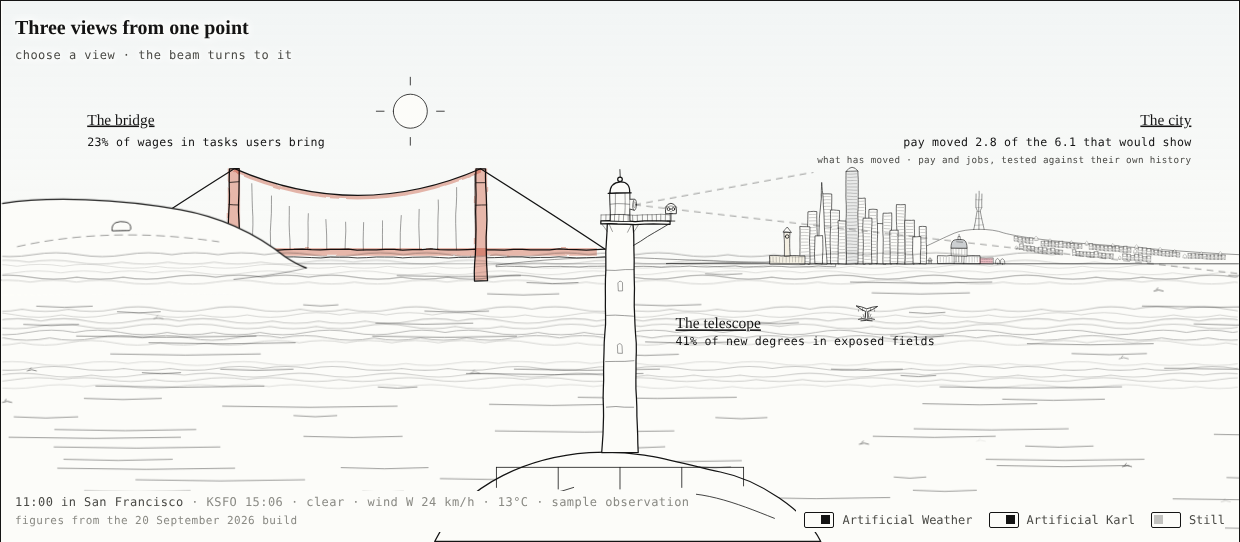
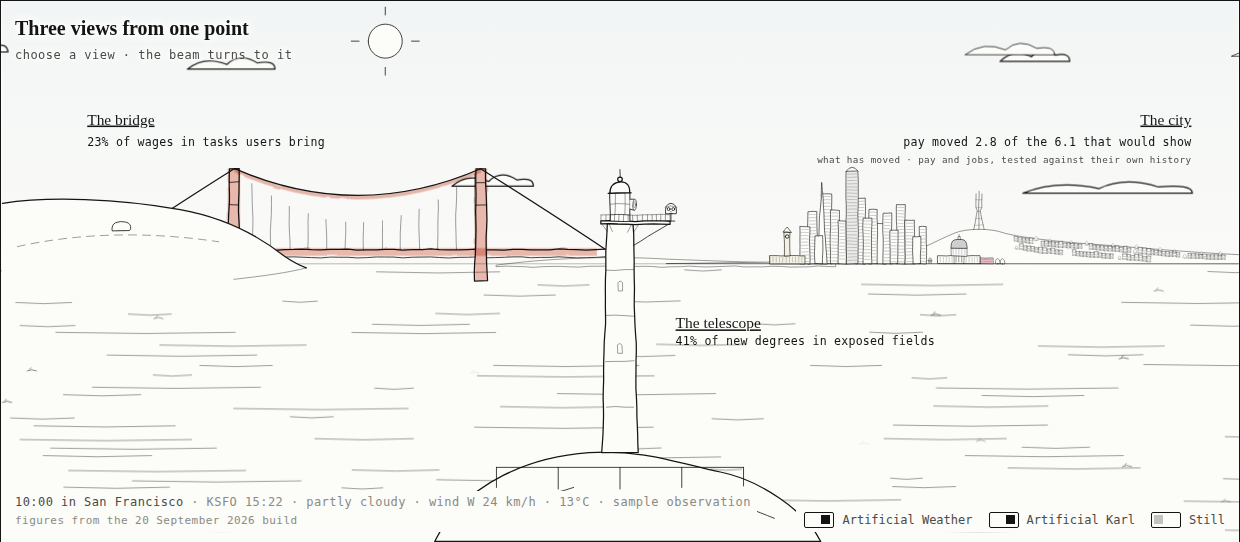
Front page: a written depth order applied throughout; far rain ends at the horizon and near rain falls in front; sun, moon and cloud clear of the labels; the light stops at the shore; take-offs climb out from behind the southern hills and nothing descends toward the city; one smooth plume for every 

diff --git a/docs/mockup/index.html b/docs/mockup/index.html
@@ -93,6 +93,7 @@ header.top{display:flex;align-items:baseline;justify-content:space-between;gap:1
 @keyframes cdrift{from{transform:translateX(1900px)}to{transform:translateX(-500px)}}
 .cloud{animation:cdrift var(--cdrift,1440s) linear infinite;animation-direction:var(--dir,normal)}
 .rain{animation:fall var(--rfall,1.1s) linear infinite}
+.rain.near{animation-duration:calc(var(--rfall,1.1s)*.7)}
 @keyframes fall{from{transform:translateY(-40px)}to{transform:translateY(40px)}}
 .sunwash,.dawn{pointer-events:none}
 .skywash{mix-blend-mode:var(--blend,multiply)}
@@ -223,6 +224,12 @@ header.top{display:flex;align-items:baseline;justify-content:space-between;gap:1
 
   <div class="frame">
   <div class="stage" id="stage" data-view="home" data-aw="on" data-ak="on">
+    <!-- The depth order. Nothing may cover what is nearer than itself.
+         1 sky: its colour; the sun, moon and stars; far cloud and far rain, which stop at the horizon; planes and launches
+         2 land: headland, bridge, city and hills, all solid, hiding whatever is behind them
+         3 near air and water: the water, the fog, near cloud and near rain, which fall in front of the land
+         4 life on the water and the shore: boats, whales, the car, gulls, a falling rocket once it has come forward
+         5 the lighthouse and the point, nearest of all; its light stops at the first solid thing it reaches -->
     <svg class="pan" id="L-sky" viewBox="0 0 1600 700" aria-hidden="true">
       <defs>
         <filter id="wc" x="-10%" y="-10%" width="120%" height="120%">
@@ -237,9 +244,9 @@ header.top{display:flex;align-items:baseline;justify-content:space-between;gap:1
         <mask id="fogmask"><rect x="0" y="0" width="1600" height="700" fill="white"/><polygon id="cone" points="0,0" fill="black"/></mask>
         <mask id="binoc"><rect x="0" y="0" width="1600" height="700" fill="black"/><circle cx="700" cy="290" r="210" fill="white"/><circle cx="900" cy="290" r="210" fill="white"/></mask>
       </defs>
-      <g class="zoom"><g id="skyall"><rect class="skywash" x="0" y="0" width="1600" height="342" fill="url(#skygrad)"/>
-      <g id="sky" class="scene sky thin"></g></g></g>
+      <g class="zoom"><g id="skywashg"><rect class="skywash" x="0" y="0" width="1600" height="342" fill="url(#skygrad)"/></g></g>
       <g id="celes" class="scene sky thin"></g>
+      <g class="zoom"><g id="skyall"><g id="sky" class="scene sky thin"></g></g></g>
       <g id="lifeback" class="life scene"></g>
     </svg>
     <!-- ================= the one scene from the point, painted once; the colour lies over the ink ================= -->
@@ -488,6 +495,10 @@ header.top{display:flex;align-items:baseline;justify-content:space-between;gap:1
   el("path", {d:"M -3.2 -5 a 1.4 1.4 0 1 1 0.1 0 M 3.2 -5 a 1.4 1.4 0 1 1 0.1 0", class:"thin", style:"fill:var(--paper)"}, bearHead);
   el("path", {d:"M -4.2 1 Q -4.8 -5.4 0 -5.8 Q 4.8 -5.4 4.4 -1.2 Q 7.4 -1.4 7.6 0.2 Q 7.2 1.6 4 1.4 L 4 1.8 Z", class:"thin", style:"fill:var(--paper)"}, bearHead);
   el("circle", {cx:2, cy:-2.6, r:.55, class:"solid"}, bearHead); el("circle", {cx:7.3, cy:-0.3, r:.6, class:"solid"}, bearHead);
+  { const u = el("g", {id:"brolly", style:"display:none"}, bearHead);
+    el("path", {d:"M 1 -6 L 1 -15", class:"hair"}, u);
+    el("path", {d:"M -9 -14 Q 1 -24 11 -14 Q 8.5 -16 6 -14 Q 3.5 -16 1 -14 Q -1.5 -16 -4 -14 Q -6.5 -16 -9 -14 Z", class:"thin", style:"fill:var(--paper)"}, u);
+    el("path", {d:"M 1 -21.5 L 1 -23", class:"hair"}, u); }
   el("path", {d:"M 143 297 Q 142 290 147 287 Q 153 284 159 285.5 Q 165 287 166 292 Q 167 296 165 297 Z", class:"thin", style:"fill:var(--paper)"}, headland);
   el("path", {d:"M 394 346 C 370 352, 340 356, 300 360", class:"hair"}, headland);
   el("path", {d:"M 20 318 C 100 300, 190 298, 280 312", class:"hair", "stroke-dasharray":"8 6"}, headland);
@@ -711,12 +722,12 @@ header.top{display:flex;align-items:baseline;justify-content:space-between;gap:1
     let far;
     if (!zoomed){
       // from the point, two sight lines to the ends of the place, and the light between them
-      far = target.ends.map(([x, y]) => [lantern[0] + (x-lantern[0])*1.25, lantern[1] + (y-lantern[1])*1.25]);
+      far = target.ends.map(([x, y]) => [x, y]);
       beamPath.setAttribute("d", far.map(([x, y]) => `M${LANTERN[0]} ${LANTERN[1]} L ${x.toFixed(1)} ${y.toFixed(1)}`).join(" "));
     } else {
       // turned, a single narrow beam from the lantern to the middle of the place, widening a little with distance
       const [a1, b1] = target.base.map(([x, y]) => toScreen(view, x, y)), c = [(a1[0]+b1[0])/2, (a1[1]+b1[1])/2];
-      const dx = c[0]-lantern[0], dy = c[1]-lantern[1], len = Math.hypot(dx, dy), nx = -dy/len, ny = dx/len, w = len*0.11, ext = 1.35;
+      const dx = c[0]-lantern[0], dy = c[1]-lantern[1], len = Math.hypot(dx, dy), nx = -dy/len, ny = dx/len, w = len*0.11, ext = .78;   // the drawn light stops short of the shore, where the first solid thing stands
       const f = [lantern[0] + dx*ext, lantern[1] + dy*ext];
       far = [[f[0] + nx*w*ext, f[1] + ny*w*ext], [f[0] - nx*w*ext, f[1] - ny*w*ext]];
     }
@@ -817,7 +828,7 @@ header.top{display:flex;align-items:baseline;justify-content:space-between;gap:1
     hold(); light(null);
     if (lastView !== null && lastView !== view){ $("#celes").style.opacity = 0; clearTimeout(celesTimer); celesTimer = setTimeout(()=>{ $("#celes").style.opacity = 1; }, 1450); }
     lastView = view;
-    for (const id of ["life", "skyall", "lifeback", "celes"]){ if (view === "valley") $("#"+id).setAttribute("mask", "url(#binoc)"); else $("#"+id).removeAttribute("mask"); }
+    for (const id of ["life", "skyall", "lifeback", "celes", "skywashg"]){ if (view === "valley") $("#"+id).setAttribute("mask", "url(#binoc)"); else $("#"+id).removeAttribute("mask"); }
     const r = R[view];
     // the one drawing scales about the place turned to; the lighthouse in front shrinks to the base of the frame
     const {c, s: zs} = ZOOM[view];
@@ -952,7 +963,7 @@ header.top{display:flex;align-items:baseline;justify-content:space-between;gap:1
   // the frame looks from a little north of east round to the south-east: the sun rises over the Gate and the bay
   // drawn, not surveyed: the sky is widened so the whole day and night cross the frame, east at the left edge, west at the right
   function xOfAzimuth(az){ const a = ((az % 360) + 360) % 360; return (Math.max(50, Math.min(310, a)) - 50)/260 * W; }
-  function yOfAltitude(alt){ return 340 - Math.max(-12, Math.min(70, alt))*4.6; }
+  function yOfAltitude(alt){ return 330 - Math.max(-12, Math.min(60, alt))*5.4; }
   const HEADING = { home:105, city:125, bridge:100, valley:150 };
 
   const sky = $("#sky"), skyFront = $("#skyfront"), celes = $("#celes"); let celesTimer = null, lastView = null;
@@ -960,7 +971,14 @@ header.top{display:flex;align-items:baseline;justify-content:space-between;gap:1
   function inFrame(view, x, y, r){
     let [sx, sy] = (view === "home" || view === "valley") ? [x, y] : toScreen(view, x, y);
     if (view === "home" || view === "valley") sx = Math.max(r + 20, Math.min(1600 - r - 20, sx));
-    return (sx - r < 10 || sx + r > 1590 || sy - r < 10) ? null : [sx, sy]; }
+    // at the point, never over a label: lift above it, or failing that set it below
+    if (view === "home") for (const [x1, y1, x2, y2] of LABELS) if (sx + r > x1 && sx - r < x2 && sy + r > y1 && sy - r < y2){
+      if (sy < (y1 + y2)/2 || y2 + r + 4 > 332) sy = Math.max(r + 4, y1 - r - 2);                 // above the label, as high as the frame allows
+      else sy = y2 + r + 4;                                                                         // or below it, if it was already low
+      if (sy + r > y1 && sy - r < y2) sx = (sx < (x1 + x2)/2) ? x1 - r - 6 : x2 + r + 6; }         // and if it still would not clear, beside it
+    for (const [x1, y1, x2, y2] of [[0, 0, 440, 104]]) if (sx + r > x1 && sx - r < x2 && sy + r > y1 && sy - r < y2) sx = x2 + r + 10;   // the title, in every view
+    return (sx - r < 4 || sx + r > 1596 || sy - r < 2) ? null : [sx, sy]; }
+  const LABELS = [[90, 100, 600, 222], [990, 100, 1570, 222]];
   // The sky's own colour: the faintest wash, blue by day, warm at the horizon around dawn and dusk, a deep
   // blue at night. Each is a pair of stops keyed to the sun's altitude and blended between the keys.
   const SKYKEYS = [[-18, ["#1B2238", .3, "#1B2238", .12]], [-7, ["#7A7CA6", .2, "#E9A27A", .16]], [-1, ["#C4BEDD", .2, "#F2B48C", .22]],
@@ -989,14 +1007,17 @@ header.top{display:flex;align-items:baseline;justify-content:space-between;gap:1
     sky.innerHTML = ""; skyFront.innerHTML = ""; celes.innerHTML = "";
     const r = rng(w.clouds*13+7), clock = Date.now()/1000;
     // most cloud is behind the land and the bridge; one in four passes in front of them
-    for (let i=0;i<w.clouds*3;i++){ const y = 110 + r()*90, wd = 80 + r()*140, front = !w.streak && i % 4 === 3;
+    // cloud keeps to two bands: high, above the labels, and low, along the horizon behind the land
+    for (let i=0;i<w.clouds*3;i++){ const y = i % 3 === 2 ? 236 + r()*52 : 66 + r()*24, wd = 80 + r()*140, front = !w.streak && i % 4 === 3;
       const d = w.streak ? `M0 ${y} q ${wd*.5} -6 ${wd} 0 M20 ${y+8} q ${wd*.3} -4 ${wd*.6} 0` : `M0 ${y} q ${wd*.2} -18 ${wd*.45} -6 q ${wd*.15} -16 ${wd*.35} -2 q ${wd*.2} -4 ${wd*.2} 8 Z`;
       const c = el("path", {d, class:"cloud"}, front ? skyFront : sky); if (!w.streak) c.style.fill = "var(--paper)";
       const own = cross*(.8 + r()*.4); c.style.animationDuration = own.toFixed(0) + "s"; c.style.animationDelay = (-(((clock/own) + r()) % 1)*own).toFixed(1) + "s"; }
-    if (w.band) for (let y=96; y<140; y+=18) el("path", {d:`M 0 ${y} L ${W} ${y}`, class:"hair"}, sky);
+    if (w.band) for (let y=90; y<104; y+=10) el("path", {d:`M 0 ${y} L ${W} ${y}`, class:"hair"}, sky);
     const rainN = [0, 220, 560][Math.max(w.rain, rainLevel)];
-    if (rainN){ const slant = -lateral * 0.35; const g = el("g", {class:"rain"}, sky);
-      for (let i=0;i<rainN;i++){ const x = r()*W, y = 130 + r()*420; el("path", {d:`M${x} ${y} l ${slant} 9`, class:"hair"}, g); } }
+    if (rainN){ const slant = -lateral * 0.35;
+      const far = el("g", {class:"rain"}, sky), near = el("g", {class:"rain near"}, skyFront);
+      for (let i=0;i<rainN;i++){ const x = r()*W, y = 60 + r()*272; el("path", {d:`M${x} ${y} l ${slant*.7} 7`, class:"hair"}, far); }        // above the horizon only
+      for (let i=0;i<rainN*.35;i++){ const x = r()*W, y = 40 + r()*640; el("path", {d:`M${x} ${y} l ${slant*1.3} 13`, class:"hair"}, near); } }
     document.querySelectorAll(".gull").forEach(p=>{ p.style.transform = `rotate(${lateral > 20 ? 14 : lateral < -20 ? -14 : 0}deg)`; p.style.transformOrigin = "center"; });
     // the day's light
     const now = sfNow(), sun = sunPosition(now), phase = moonPhase(now), moon = sunPosition(now, phase*360, Math.cos(phase*2*Math.PI));
@@ -1011,7 +1032,7 @@ header.top{display:flex;align-items:baseline;justify-content:space-between;gap:1
       el("path", {d:`M ${x} ${y} m -22 0 a 22 22 0 1 0 44 0 a 22 22 0 1 0 -44 0 M ${x} ${y-34} l 0 -10 M ${x} ${y+34} l 0 10 M ${x-34} ${y} l -10 0 M ${x+34} ${y} l 10 0`, class:"thin sun", style:"fill:var(--paper)"}, celes);
     }
     if (night){ const rs = rng(Math.floor(Date.now()/86400e3)); const n = 4 + Math.floor(rs()*2);
-      for (let i=0;i<n;i++){ const x = 480 + rs()*1080, y = 40 + rs()*120, sz = 2 + rs()*1.6;
+      for (let i=0;i<n;i++){ const x = 480 + rs()*1080, y = 30 + rs()*62, sz = 2 + rs()*1.6;
         const st = el("path", {d:`M ${x} ${y-sz*2} L ${x+sz*.45} ${y-sz*.45} L ${x+sz*2} ${y} L ${x+sz*.45} ${y+sz*.45} L ${x} ${y+sz*2} L ${x-sz*.45} ${y+sz*.45} L ${x-sz*2} ${y} L ${x-sz*.45} ${y-sz*.45} Z`, class:"star", style:"fill:var(--ink);stroke:none"}, celes);
         st.style.animationDuration = (5 + rs()*7).toFixed(1) + "s"; st.style.animationDelay = (-rs()*10).toFixed(1) + "s"; } }
     // the moon is drawn at its phase and where it is; on a night it has set, the drawing keeps it low over the horizon anyway
@@ -1052,7 +1073,7 @@ header.top{display:flex;align-items:baseline;justify-content:space-between;gap:1
   const life = $("#life");
   const reduced = matchMedia("(prefers-reduced-motion: reduce)").matches;
   function tween(ms, step, done){ const t0 = performance.now(); (function f(t){ const k = Math.min(1, (t - t0)/ms); step(k); if (k < 1) requestAnimationFrame(f); else if (done) done(); })(t0); }
-  let taxiUntil = 0, bearUp = false, rocketUntil = 0, whaleUp = false;        // one robotaxi on the road at a time; one bear
+  let taxiUntil = 0, bearUp = false, rocketUntil = 0, whaleUp = 0, lastPad = 0, ferryUntil = 0;        // one robotaxi on the road at a time; one bear
   const EVENTS = {
     gull(){ if (stage.classList.contains("night")) return; // one to three, each its own size, pace, bob and wingbeat
       const n = 1 + Math.floor(Math.random()*Math.random()*3), ltr = Math.random() < .5, y0 = 130 + Math.random()*140, dur = 12000 + Math.random()*10000;
@@ -1061,7 +1082,7 @@ header.top{display:flex;align-items:baseline;justify-content:space-between;gap:1
         const w = el("path", {d:flap[0]}, g); let i = 0; const flapper = setInterval(()=>{ w.setAttribute("d", flap[i++ % 2]); }, 200 + Math.random()*140);
         tween(dur*(.95 + Math.random()*.1), k=>{ const x = ltr ? -40 - dx + k*1740 : 1640 + dx - k*1740; g.setAttribute("transform", `translate(${x},${y0 + dy + Math.sin(k*fq + ph)*amp}) scale(${sc})`); }, ()=>{ clearInterval(flapper); g.remove(); }); } },
     plane(){ // several kinds, several paths: across high, in to land, up from behind the city, across and away, round and down behind the skyline, a small jet
-      const view = stage.dataset.view, kinds = ["cruise","landing","takeoff","away","turn","jet"], kind = PLANE_KIND || kinds[Math.floor(Math.random()*kinds.length)];
+      const view = stage.dataset.view, kinds = ["cruise", "takeoff", "away", "jet", "cruise"], kind = PLANE_KIND || kinds[Math.floor(Math.random()*kinds.length)];
       const g = el("g", {}, $("#lifeback")), ship = el("g", {class:"thin"}, g), P = "fill:var(--paper)";
       if (kind === "jet"){
         el("path", {d:"M-22 -3 L 15 -2.6 Q 23 -2.2 24 0 Q 22 2 15 2 L -16 2 Q -20 1.4 -22 -3 Z", style:P}, ship);
@@ -1089,22 +1110,23 @@ header.top{display:flex;align-items:baseline;justify-content:space-between;gap:1
       el("circle", {cx:nose[0], cy:nose[1], r:2, class:"carlight lamp", style:"fill:#FFF8DC;stroke:none"}, ship);
       const beat = (.9 + Math.random()*.9).toFixed(2) + "s"; red.style.setProperty("--nav", beat); green.style.setProperty("--nav", beat); green.style.animationDelay = "-" + (Math.random()).toFixed(2) + "s";
       // where it rises from, or sinks behind: the city, which sits differently in each view
-      const behind = { home:[1010, 262], city:[780, 300], bridge:[1250, 300], valley:[800, 300] }[view];
+      // a take-off starts below the ridge of the southern hills, so the land hides it until it climbs out; where those hills are off the frame, it is a crossing instead
+      const hill = view === "home" ? [1480 + Math.random()*90, 333] : view === "city" ? toScreen("city", 1500, 333) : null;
+      const behind = hill;
       const L2R = Math.random() < .5, sx = L2R ? -90 : 1690, ex = L2R ? 1690 : -90;
       const bez = (p0, p1, p2, p3, t) => { const u = 1-t; return [0,1].map(i => u*u*u*p0[i] + 3*u*u*t*p1[i] + 3*u*t*t*p2[i] + t*t*t*p3[i]); };
-      const hi = 80 + Math.random()*60;
+      const ceiling = { home:[80, 140], city:[22, 52], bridge:[22, 70], valley:[80, 140] }[view], hi = ceiling[0] + Math.random()*(ceiling[1] - ceiling[0]);   // above the tallest thing in the view
       const path = {
         cruise:  { dur: 34000 + Math.random()*12000, s:[.42, .42], at: t => [sx + (ex-sx)*t, hi + Math.sin(t*4)*2] },
         jet:     { dur: 13000 + Math.random()*5000,  s:[.36, .36], at: t => [sx + (ex-sx)*t, hi - 10 + t*(Math.random()<.5?1:-1)*0] },
-        landing: { dur: 24000 + Math.random()*6000,  s:[.5, .78], at: t => bez([sx, 110], [sx + (ex-sx)*.35, 140], [sx + (ex-sx)*.7, 250], [ex, 300 + Math.random()*0], t) },
-        takeoff: { dur: 20000 + Math.random()*6000,  s:[.3, .6], at: t => bez(behind, [behind[0] + (L2R?1:-1)*120, behind[1] - 40], [behind[0] + (L2R?1:-1)*500, 120], [behind[0] + (L2R?1:-1)*1100, 20], t), gearUp:true },
-        away:    { dur: 26000 + Math.random()*8000,  s:[.45, .08], at: t => bez([sx, 170], [800, 175], [L2R ? 1100 : 500, 110], [L2R ? 1150 : 450, 30], t), fade:true },
-        turn:    { dur: 26000 + Math.random()*8000,  s:[.42, .12], at: t => bez([ex, 120], [L2R ? 1100 : 500, 140], [behind[0] + (L2R?160:-160), behind[1] - 70], [behind[0], behind[1] + 10], t) },
-      }[kind];
+        takeoff: behind ? { dur: 24000 + Math.random()*6000, s:[.34, .6], at: t => bez(behind, [behind[0] - 30, behind[1] - 100], [behind[0] - 120, behind[1] - 260], [behind[0] - 800, behind[1] - 400], t), gearUp:true } : null,
+        away:    { dur: 26000 + Math.random()*8000,  s:[.45, .08], at: t => bez([sx, hi + 20], [800, hi + 24], [L2R ? 1100 : 500, hi - 20], [L2R ? 1150 : 450, Math.max(4, hi - 60)], t), fade:true },
+      }[kind] || { dur: 34000 + Math.random()*12000, s:[.42, .42], at: t => [sx + (ex-sx)*t, hi + Math.sin(t*4)*2] };
       let prev = path.at(0);
       tween(path.dur, k=>{
         const [x, y] = path.at(k), [nx, ny] = path.at(Math.min(1, k + .004)), dx = nx - x, dy = ny - y;
-        const dir = dx >= 0 ? 1 : -1; let rot = Math.atan2(dy, Math.abs(dx))*180/Math.PI * dir; rot = Math.max(-30, Math.min(30, rot));
+        // pitch follows the path, nose up in a climb and a little more than the path itself, as a wing needs
+        const dir = dx >= 0 ? 1 : -1; let rot = Math.atan2(dy, Math.abs(dx))*180/Math.PI * dir; rot = Math.max(-25, Math.min(25, rot*1.15));
         const sc = path.s[0] + (path.s[1] - path.s[0])*k;
         if (path.gearUp) gear.style.opacity = Math.max(0, 1 - (k-.2)*6);
         if (path.fade) g.style.opacity = Math.min(1, (1-k)*6);
@@ -1113,40 +1135,49 @@ header.top{display:flex;align-items:baseline;justify-content:space-between;gap:1
       }, ()=>g.remove()); },
     rocket(){ const view = stage.dataset.view; if (view !== "home" && view !== "valley") return 0;
       if (performance.now() < rocketUntil) return 0;
-      // from behind the land, straight up, slow at first and gathering speed, its plume left hanging in the air behind it;
-      // one in three loses its engine, coasts, hangs, wobbles, and falls back into the bay
-      const valley = view === "valley", clip = valley ? "url(#behind-foothills)" : "url(#behind-hills)";
-      const pickX = () => { if (!valley) return 1420 + Math.random()*120; let x; do { x = 830 + Math.random()*270; } while (Math.abs(x - 930) < 40); return x; };
-      const x0 = pickX(), y0 = valley ? 300 : 380, waterY = valley ? 430 : 372 + Math.random()*30;
-      // the clip sits on a still wrapper: on the moving rocket itself it would move with it
-      const holder = el("g", {"clip-path":clip}, life), g = el("g", {class:"thin"}, holder), trail = el("g", {class:"hair"}, life); trail.setAttribute("clip-path", clip);
+      // it rises from behind the land in the far layer, so the land hides the pad and the first seconds of the climb;
+      // slow off the pad, gathering speed, leaving a plume that spreads and thins; one in three loses its engine,
+      // coasts, hangs, wobbles, and falls forward into the bay, crossing into the near layer as it comes
+      const valley = view === "valley", far = $("#lifeback");
+      let x0; do { x0 = valley ? 830 + Math.random()*270 : 1350 + Math.random()*230; } while ((valley && Math.abs(x0 - 930) < 40) || Math.abs(x0 - lastPad) < 60);
+      lastPad = x0;
+      const y0 = valley ? 300 : 352, waterY = valley ? 430 : 372 + Math.random()*30;
+      const plume = el("path", {d:"", style:"fill:var(--ink);fill-opacity:.1;stroke:none"}, far), core = el("path", {d:"", class:"hair"}, far);
+      const g = el("g", {class:"thin"}, far);
       el("path", {d:"M-3 0 L -3 -20 Q 0 -30 3 -20 L 3 0 Z M-3 -5 L -7 2 L -3 0 M 3 -5 L 7 2 L 3 0", style:"fill:var(--paper)"}, g);
       const flame = el("path", {d:"M -2 1 L 0 9 L 2 1", class:"thin"}, g);
-      const fails = FORCE_FAIL || Math.random() < 1/3, lean = (valley ? (Math.random() < .5 ? 1 : -1) : 1)*(.35 + Math.random()*.55);   // from the point they turn out over the ocean, into the frame
-      const cut = 3.6 + Math.random()*1.2;                                            // seconds of burn, for the one that fails
-      let t = 0, x = x0, y = y0, vx = 0, vy = -8, ang = 0, spin = 0, phase = "burn", last = performance.now(), lastPuff = 0, splash = null, hangT = 0;
+      const fails = FORCE_FAIL || Math.random() < 1/3, lean = (valley ? (Math.random() < .5 ? 1 : -1) : 1)*(.35 + Math.random()*.55);
+      const cutoff = 3.8 + Math.random()*1.2;
+      let t = 0, x = x0, y = y0, vx = 0, vy = -8, ang = 0, spin = 0, phase = "burn", last = performance.now(), hangT = 0, splash = null;
+      const pts = [];                                                               // the plume: where the nozzle has been, and when
       rocketUntil = performance.now() + 60000;
-      const puff = (px, py, speed) => { const len = 4 + speed*.12, l = el("path", {d:`M ${px.toFixed(1)} ${py.toFixed(1)} l ${((Math.random()-.5)*3).toFixed(1)} ${len.toFixed(1)}`}, trail);
-        l.style.transition = "opacity 3.2s linear"; requestAnimationFrame(()=>requestAnimationFrame(()=>{ l.style.opacity = 0; })); setTimeout(()=>l.remove(), 3400); };
-      const done = () => { holder.remove(); setTimeout(()=>{ trail.remove(); if (splash) splash.remove(); }, 3500); rocketUntil = performance.now() + 4000; };
+      const drawPlume = () => {
+        const now = t; while (pts.length && now - pts[0][2] > 7) pts.shift();
+        if (pts.length < 2){ plume.setAttribute("d", ""); core.setAttribute("d", ""); return; }
+        const L = [], R = []; let c = "";
+        pts.forEach(([px, py, pt], i) => { const age = now - pt, w = .8 + age*2.6 + Math.sin(i*1.7)*age*.5;
+          L.push(`${(px - w).toFixed(1)} ${py.toFixed(1)}`); R.unshift(`${(px + w).toFixed(1)} ${py.toFixed(1)}`); c += `${i ? "L" : "M"} ${px.toFixed(1)} ${py.toFixed(1)} `; });
+        plume.setAttribute("d", `M ${L.join(" L ")} L ${R.join(" L ")} Z`); core.setAttribute("d", c); };
+      const done = () => { g.remove(); const fade = setInterval(()=>{ t += .1; drawPlume(); if (pts.length < 2){ clearInterval(fade); plume.remove(); core.remove(); } }, 100); rocketUntil = performance.now() + 4000; };
       (function step(now){
-        if (!g.isConnected) return done();
-        const dt = Math.min(.05, (now - last)/1000); last = now; t += dt;
-        if (phase === "burn"){ vy = -(8 + 9*t); vx = -lean*.5*t*t; if (fails && t > cut) phase = "coast"; }
+        if (!g.isConnected) return;
+        const dt = Math.min(.034, (now - last)/1000); last = now; t += dt;
+        if (phase === "burn"){ vy = -(6 + 8*t); vx = -lean*.45*t*t; if (fails && t > cutoff) phase = "coast"; }
         else if (phase === "coast"){ vy += 13*dt; vx *= (1 - .6*dt); if (vy >= 0){ phase = "hang"; hangT = 0; } }
-        else if (phase === "hang"){ hangT += dt; vy = 2*hangT; spin = Math.sin(hangT*9)*(8 + hangT*30); if (hangT > 1.4){ phase = "fall"; holder.removeAttribute("clip-path"); } }
+        else if (phase === "hang"){ hangT += dt; vy = 2*hangT; spin = Math.sin(hangT*9)*(8 + hangT*30); if (hangT > 1.4){ phase = "fall"; life.appendChild(g); } }
         else if (phase === "fall"){ vy += 16*dt; vx = -lean*10; spin += 260*dt*lean; }
         x += vx*dt; y += vy*dt;
-        ang = phase === "burn" || phase === "coast" ? Math.atan2(vx, -vy)*180/Math.PI : ang;
-        g.setAttribute("transform", `translate(${x.toFixed(1)},${y.toFixed(1)}) rotate(${(ang + spin).toFixed(1)})`);
+        if (phase === "burn" || phase === "coast") ang = Math.atan2(vx, -vy)*180/Math.PI;
+        g.setAttribute("transform", `translate(${x.toFixed(2)},${y.toFixed(2)}) rotate(${(ang + spin).toFixed(2)})`);
         const burning = phase === "burn"; flame.style.opacity = burning ? (.6 + Math.random()*.4) : 0;
-        if (burning && now - lastPuff > 45){ lastPuff = now; const r = ang*Math.PI/180; puff(x - Math.sin(r)*-2, y + Math.cos(r)*6, Math.abs(vy)); }
+        if (burning){ const r = ang*Math.PI/180; pts.push([x - Math.sin(r)*4, y + Math.cos(r)*4, t]); }
+        drawPlume();
         if (phase === "fall" && y >= waterY){
-          g.style.opacity = 0; splash = el("g", {class:"thin"}, life);
+          g.remove(); splash = el("g", {class:"thin"}, life);
           for (let i=0;i<7;i++){ const a = (-150 + i*20)*Math.PI/180; el("path", {d:`M${x} ${waterY} l ${Math.cos(a)*8} ${Math.sin(a)*8} l ${Math.cos(a)*10} ${Math.sin(a)*14}`}, splash); }
           el("path", {d:`M${x-30} ${waterY+6} q 30 -5 60 0 M${x-48} ${waterY+14} q 48 -6 96 0`, class:"hair"}, splash);
-          splash.style.transition = "opacity 2.5s"; requestAnimationFrame(()=>requestAnimationFrame(()=>{ splash.style.opacity = 0; })); return done(); }
-        if (y < -80) return done();
+          splash.style.transition = "opacity 2.5s"; requestAnimationFrame(()=>requestAnimationFrame(()=>{ splash.style.opacity = 0; })); setTimeout(()=>splash.remove(), 2700); return done(); }
+        if (y < -120) return done();
         requestAnimationFrame(step); })(last);
       return fails ? 14000 : 16000; },
     robotaxi(){ if (stage.dataset.view !== "city" || performance.now() < taxiUntil) return 0; taxiUntil = performance.now() + 21000;
@@ -1174,6 +1205,7 @@ header.top{display:flex;align-items:baseline;justify-content:space-between;gap:1
     bear(){ if (stage.dataset.view !== "bridge" || bearUp) return 0; bearUp = true;
       // up over the rock, a look one way and the other, and down again
       const h = $("#bearhead"); const at = (y, fx) => h.setAttribute("transform", `translate(0,${y.toFixed(2)}) scale(${fx},1)`);
+      const wet = (PRESETS[current.preset] || {}).rain > 0 || current.rainLevel > 0; $("#brolly").style.display = wet ? "" : "none";   // in the rain, it brings an umbrella
       tween(1800, k=>at(8 - 17*(1-(1-k)**2), 1), ()=>{ setTimeout(()=>{ at(-9, -1); setTimeout(()=>{ at(-9, 1);
         setTimeout(()=>tween(1400, k=>at(-9 + 17*k*k, 1), ()=>{ bearUp = false; }), 1600); }, 1400); }, 1500); });
       return 7800; },
@@ -1187,17 +1219,23 @@ header.top{display:flex;align-items:baseline;justify-content:space-between;gap:1
       el("path", {d:"M -1.5 -38 L -1.5 -4 L -17 -4 Z", style:P}, boat);
       el("circle", {cx:0, cy:-45, r:1.3, class:"carlight lamp", style:"fill:#FFFFFF;stroke:none"}, boat);
       el("circle", {cx:-20, cy:2, r:1.3, class:"carlight lamp", style:"fill:#FF3B30;stroke:none"}, boat);
-      const y = 500 + Math.random()*70, dur = 60000 + Math.random()*20000, heel = 3 + Math.random()*4, sc = .8 + Math.random()*.3;
+      const y = 535 + Math.random()*45, dur = 60000 + Math.random()*20000, heel = 3 + Math.random()*4, sc = .55 + Math.random()*.15;
       tween(dur, k=>{ g.setAttribute("transform", `translate(${-60 + k*1760},${y + Math.sin(k*34)*1.6}) scale(${sc}) rotate(${-heel + Math.sin(k*23)*1.5})`); }, ()=>g.remove()); },
-    whale(){ const view = stage.dataset.view; if ((view !== "bridge" && view !== "home") || whaleUp) return 0; whaleUp = true;
+    whale(){ const view = stage.dataset.view; if ((view !== "bridge" && view !== "home") || whaleUp) return 0;
+      // one, or now and then a pair surfacing together
+      const pair = Math.random() < .35; let dur = EVENTS.fluke(null); if (pair){ const lead = WHALE_AT; setTimeout(()=>EVENTS.fluke(lead), 1100 + Math.random()*900); dur += 2000; }
+      return dur; },
+    fluke(near){ const view = stage.dataset.view; whaleUp++;
       // where: open water, clear of the headland, the lighthouse and the point; further off is smaller
       let x, y;
-      if (view === "bridge"){ x = 640 + Math.random()*360; y = 420 + Math.random()*90; }
-      else { do { x = 330 + Math.random()*1150; y = 350 + Math.random()*120; } while (x > 540 && x < 740); }
-      const sc = view === "bridge" ? 1.4 + Math.random()*.4 : .35 + (y - 350)/120*.45, P = "fill:var(--paper)";
-      const defs = $("#L-life defs"); $("#whaleclip")?.remove();
-      const cp = el("clipPath", {id:"whaleclip", clipPathUnits:"userSpaceOnUse"}, defs); el("rect", {x:0, y:0, width:1600, height:y}, cp);
-      const g = el("g", {class:"thin"}, life), under = el("g", {"clip-path":"url(#whaleclip)"}, g);
+      if (near){ x = near[0] + (Math.random() < .5 ? -1 : 1)*(40 + Math.random()*30)*near[2]; y = near[1] + (Math.random() - .5)*12; }
+      else if (view === "bridge"){ x = 640 + Math.random()*360; y = 420 + Math.random()*90; }
+      else { do { x = 430 + Math.random()*1050; y = 360 + Math.random()*120; } while (x > 540 && x < 760); }
+      const sc = near ? near[2]*(.8 + Math.random()*.2) : view === "bridge" ? 1.4 + Math.random()*.4 : .7 + (y - 360)/120*.5, P = "fill:var(--paper)";
+      WHALE_AT = [x, y, sc]; const cid = "whaleclip" + whaleUp;
+      const defs = $("#L-life defs"); document.getElementById(cid)?.remove();
+      const cp = el("clipPath", {id:cid, clipPathUnits:"userSpaceOnUse"}, defs); el("rect", {x:0, y:0, width:1600, height:y}, cp);
+      const g = el("g", {class:"thin"}, life), under = el("g", {"clip-path":`url(#${cid})`}, g);
       const back = el("path", {d:"", style:P}, under);
       const tail = el("g", {}, under);
       el("path", {d:"M -3.4 6 L -2.2 -16 Q -12 -19 -24 -28 Q -12 -27 0 -22 Q 12 -27 24 -28 Q 12 -19 2.2 -16 L 3.4 6 Z", style:P}, tail);
@@ -1220,23 +1258,67 @@ header.top{display:flex;align-items:baseline;justify-content:space-between;gap:1
         drips.setAttribute("d", dr);
         // and once it is under, a ring spreading where it went
         const rk = Math.max(0, (k - .9)/.1); ring.setAttribute("d", rk > 0 ? `M ${x - 30*sc*(1 + rk)} ${y + 2} q ${30*sc*(1 + rk)} ${-5*sc} ${60*sc*(1 + rk)} 0` : ""); ring.style.opacity = 1 - rk*.7;
-      }, ()=>{ g.remove(); cp.remove(); whaleUp = false; });
+      }, ()=>{ g.remove(); cp.remove(); whaleUp = Math.max(0, whaleUp - 1); });
       return dur; },
-    boat(){ if (stage.dataset.view !== "bridge") return 0; (Math.random() < .5 ? EVENTS.sail : EVENTS.ferry)(); return 9000; },
+    boat(){ if (stage.dataset.view !== "bridge") return 0; (Math.random() < .5 && !stage.classList.contains("night") ? EVENTS.sail : EVENTS.cargo)(); return 9000; },
     bart(){ if (stage.dataset.view !== "valley") return 0;
       const t = $("#bart"), dur = 10500 + Math.random()*3000;
       tween(dur, k=>{ t.setAttribute("transform", `translate(${(300 + k*540).toFixed(1)},0)`); }, ()=>t.setAttribute("transform", "translate(-400,0)"));
       return dur; },
-    ferry(){ if (stage.dataset.view !== "bridge") return 0;
-      const g = el("g", {class:"thin"}, life); el("path", {d:"M0 0 l -30 0 l 6 10 l 48 0 l 6 -10 z M-14 0 l 0 -10 l 22 0 l 0 10 M-4 -10 l 0 -9"}, g, ).style.fill = "var(--paper)";
-      for (let i=0;i<3;i++) el("rect", {x:-11 + i*6, y:-7, width:3, height:3, class:"carlight lamp", style:"fill:#F8DC8C;stroke:none"}, g);
-      el("circle", {cx:-4, cy:-19, r:1.4, class:"carlight lamp", style:"fill:#FFFFFF;stroke:none"}, g);
-      el("path", {d:"M 24 3 L 52 -3 L 52 9 Z", class:"carlight beamcone", style:"fill:#F6DE92;stroke:none;fill-opacity:.4"}, g);
-      el("circle", {cx:23, cy:3, r:1.4, class:"carlight lamp", style:"fill:#FFF6D2;stroke:none"}, g);
-      const y = 530 + Math.random()*50, dur = 44000 + Math.random()*16000, bob = 1 + Math.random()*1.5;
-      tween(dur, k=>{ g.setAttribute("transform", `translate(${-80 + k*1780},${y + Math.sin(k*28)*bob})`); }, ()=>g.remove()); },
+    cargo(){ if (stage.dataset.view !== "bridge") return 0;
+      // a container ship, long and low, stacked with boxes, the house and funnel aft
+      const g = el("g", {class:"thin"}, life), P = "fill:var(--paper)";
+      el("path", {d:"M -62 0 L 60 0 L 70 -6 L 70 2 L 60 11 L -58 11 Z", style:P}, g);
+      el("path", {d:"M -58 5 L 64 5", class:"hair"}, g);
+      el("path", {d:"M -56 0 L -56 -18 L -40 -18 L -40 0 Z", style:P}, g);
+      el("path", {d:"M -54 -13 l 12 0 M -54 -8 l 12 0", class:"hair"}, g);
+      el("path", {d:"M -51 -18 L -51 -25 L -45 -25 L -45 -18 Z", style:P}, g);
+      const tones = ["var(--orange)", "var(--glass)", "var(--sky)", "var(--rose)", "var(--green)"], boxes = [];
+      for (let tier=0; tier<2; tier++) for (let i=0; i<9; i++){
+        const bx = -34 + i*10, by = -5 - tier*5, box = el("g", {}, g);
+        el("rect", {x:bx, y:by, width:9.4, height:4.6, class:"hair", style:P}, box);
+        el("rect", {x:bx, y:by, width:9.4, height:4.6, style:`fill:${tones[(i*3 + tier*2) % tones.length]};stroke:none;opacity:.35`}, box);
+        if (tier === 1) boxes.push([box, bx, by]); }
+      el("rect", {x:-49, y:-22, width:2.4, height:2, class:"carlight lamp", style:"fill:#F8DC8C;stroke:none"}, g);
+      el("circle", {cx:-48, cy:-27, r:1.3, class:"carlight lamp", style:"fill:#FFFFFF;stroke:none"}, g);
+      el("circle", {cx:69, cy:-6, r:1.3, class:"carlight lamp", style:"fill:#46C271;stroke:none"}, g);
+      const y = 550 + Math.random()*35, dur = 70000 + Math.random()*20000, sc = 1.25 + Math.random()*.25;
+      const drops = params.get("crate") === "1" || Math.random() < 1/3, at = params.get("crate") === "1" ? .28 : .35 + Math.random()*.3; let dropped = false;
+      tween(dur, k=>{
+        const x = -120 + k*1880; g.setAttribute("transform", `translate(${x.toFixed(1)},${(y + Math.sin(k*18)*1.2).toFixed(1)}) scale(${sc})`);
+        if (drops && !dropped && k > at){ dropped = true;
+          // one box on the top tier slides over the side, drops, lands with a splash, bobs, and slips under
+          const [box, bx, by] = boxes[2 + Math.floor(Math.random()*5)]; box.remove();
+          const c = el("g", {class:"thin"}, life); el("rect", {x:-4.7, y:-2.3, width:9.4, height:4.6, style:P}, c);
+          const wx = x + (bx + 4.7)*sc, wy0 = y + (by + 2.3)*sc, wy = y + 16*sc; let splash = null;
+          tween(9000, u=>{
+            const fall = Math.min(1, u/.12), cy = wy0 + (wy - wy0)*fall*fall, rot = fall*28 + (u > .12 ? Math.sin(u*40)*6 : 0), sink = u > .6 ? (u - .6)/.4 : 0;
+            c.setAttribute("transform", `translate(${(wx - u*14).toFixed(1)},${(cy + sink*5*sc).toFixed(1)}) rotate(${rot.toFixed(1)}) scale(${(sc*(1 - sink*.5)).toFixed(2)})`); c.style.opacity = 1 - sink;
+            if (u > .12 && !splash){ splash = el("g", {class:"hair"}, life); for (let i=0;i<6;i++){ const a = (-150 + i*24)*Math.PI/180; el("path", {d:`M${wx} ${wy} l ${Math.cos(a)*7*sc} ${Math.sin(a)*9*sc}`}, splash); }
+              el("path", {d:`M ${wx - 14*sc} ${wy + 3} q ${14*sc} -3 ${28*sc} 0`}, splash); }
+            if (splash) splash.style.opacity = Math.max(0, 1 - (u - .12)*3);
+          }, ()=>{ c.remove(); splash?.remove(); }); }
+      }, ()=>g.remove()); },
+    cityferry(){ if (stage.dataset.view !== "city" || performance.now() < ferryUntil) return 0;
+      // a ferry leaves the Ferry Building and comes across the bay toward the point, growing as it nears, its wake opening behind it
+      const [px, py] = toScreen("city", cityX(1240), CITY.y + 6), endX = 620 + Math.random()*260, dur = 26000 + Math.random()*6000;
+      ferryUntil = performance.now() + dur;
+      const g = el("g", {class:"thin"}, life), ship = el("g", {}, g), wake = el("path", {d:"", class:"hair"}, g), P = "fill:var(--paper)";
+      el("path", {d:"M -15 0 L 15 0 L 11 8 L -11 8 Z", style:P}, ship);
+      el("path", {d:"M -12 0 L -12 -8 L 12 -8 L 12 0 Z", style:P}, ship);
+      el("path", {d:"M -7 -8 L -7 -13 L 7 -13 L 7 -8 Z", style:P}, ship);
+      el("path", {d:"M -10 -4.5 L 10 -4.5", class:"hair"}, ship);
+      for (let i=0;i<5;i++) el("rect", {x:-10 + i*4.2, y:-6.5, width:2.6, height:2, class:"carlight", style:"fill:#F8DC8C;stroke:none"}, ship);
+      el("circle", {cx:-6, cy:4, r:1.3, class:"carlight lamp", style:"fill:#FFF6D2;stroke:none"}, ship); el("circle", {cx:6, cy:4, r:1.3, class:"carlight lamp", style:"fill:#FFF6D2;stroke:none"}, ship);
+      el("circle", {cx:0, cy:-15, r:1.1, class:"carlight lamp", style:"fill:#FFFFFF;stroke:none"}, ship);
+      tween(dur, k=>{
+        const near = Math.pow(k, 1.6), sc = .35 + near*2.6, x = px + (endX - px)*near, y = py + near*(760 - py);
+        ship.setAttribute("transform", `translate(${x.toFixed(1)},${y.toFixed(1)}) scale(${sc.toFixed(3)})`);
+        const w = 11*sc, len = 20 + near*90; wake.setAttribute("d", `M ${x - w} ${y + 8*sc} L ${x - w - len*.5} ${y + 8*sc - len*.35} M ${x + w} ${y + 8*sc} L ${x + w + len*.5} ${y + 8*sc - len*.35}`);
+      }, ()=>g.remove());
+      return dur; },
   };
-  const PLANE_KIND = params.get("plane");
+  const PLANE_KIND = params.get("plane"); let WHALE_AT = null;
   const FORCE_FAIL = params.get("rocket") === "fail";
   /* The director. Each view has its first act, a set of features and its ambient life. Only one feature
      plays at a time, a quiet gap follows it, and every feature in the view's set plays once before any plays
@@ -1245,7 +1327,7 @@ header.top{display:flex;align-items:baseline;justify-content:space-between;gap:1
      event is caught so the others carry on. */
   const PLAY = {
     home:   { first:[["rocket", 9000]],                                   features:["whale", "rocket"],          gap:[12000, 22000], ambient:[["gull", [18000, 34000]], ["plane", [26000, 48000]]] },
-    city:   { first:[["robotaxi", 6000]],                                 features:["robotaxi"],                 gap:[26000, 40000], ambient:[["gull", [20000, 36000]], ["plane", [28000, 50000]]] },
+    city:   { first:[["robotaxi", 6000], ["cityferry", 24000]],          features:["robotaxi", "cityferry"],    gap:[14000, 24000], ambient:[["gull", [20000, 36000]], ["plane", [28000, 50000]]] },
     bridge: { first:[["boat", 2500], ["bear", 15000], ["whale", 30000]],  features:["bear", "whale", "boat"],     gap:[12000, 22000], ambient:[["gull", [18000, 34000]], ["plane", [30000, 55000]]] },
     valley: { first:[["bart", 1500], ["rocket", 13000]],                  features:["bart", "rocket", "bart"],   gap:[5000, 11000],  ambient:[] },
   };
